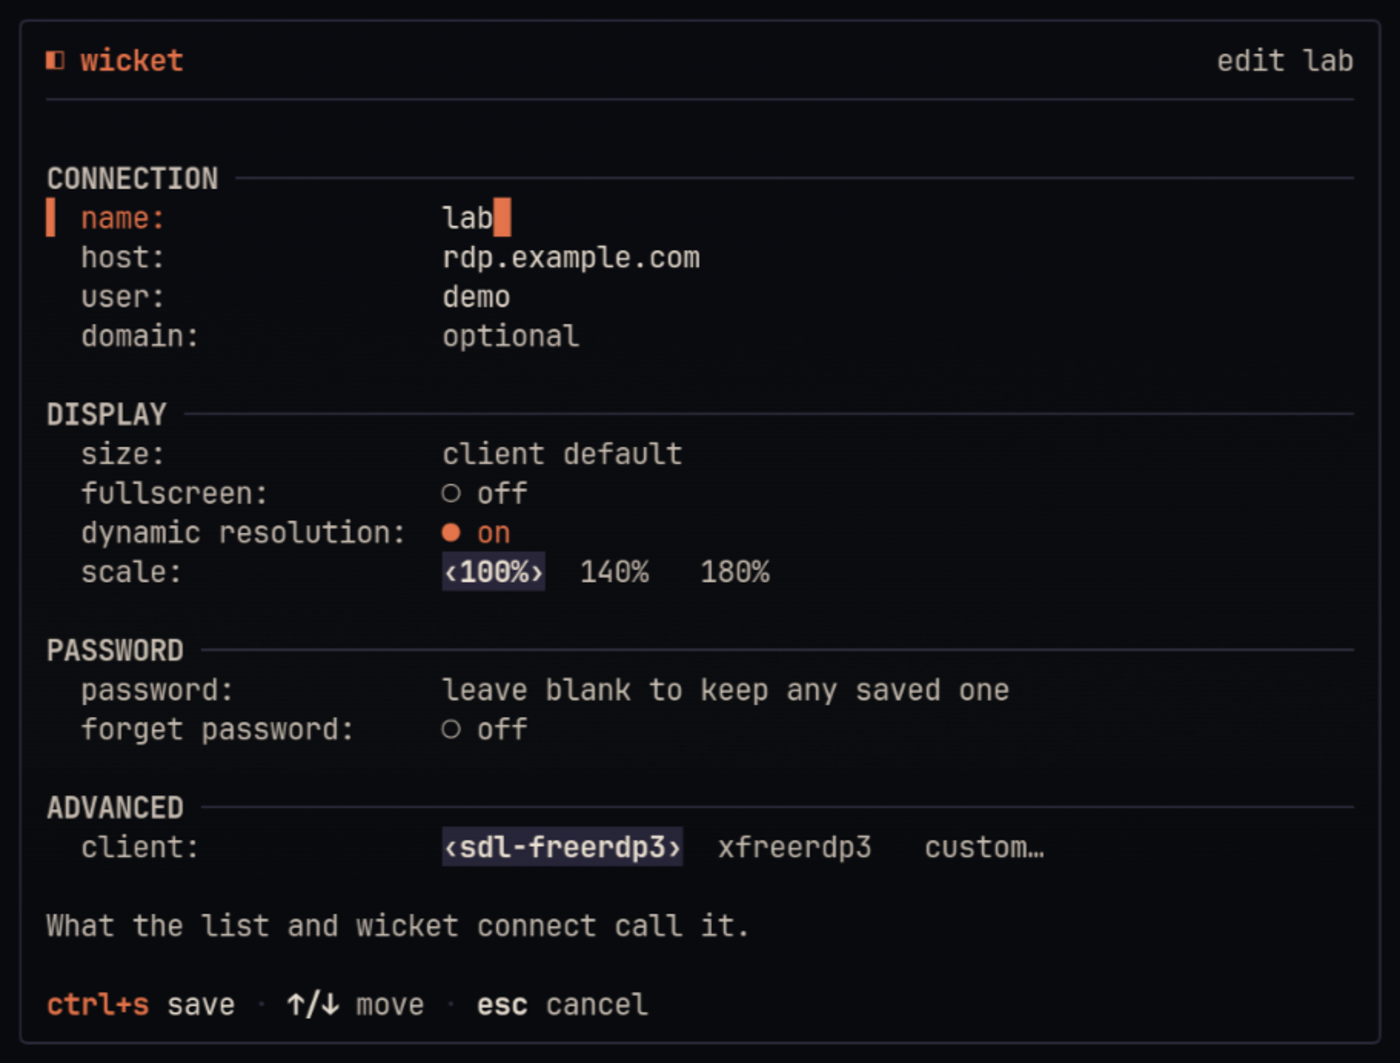
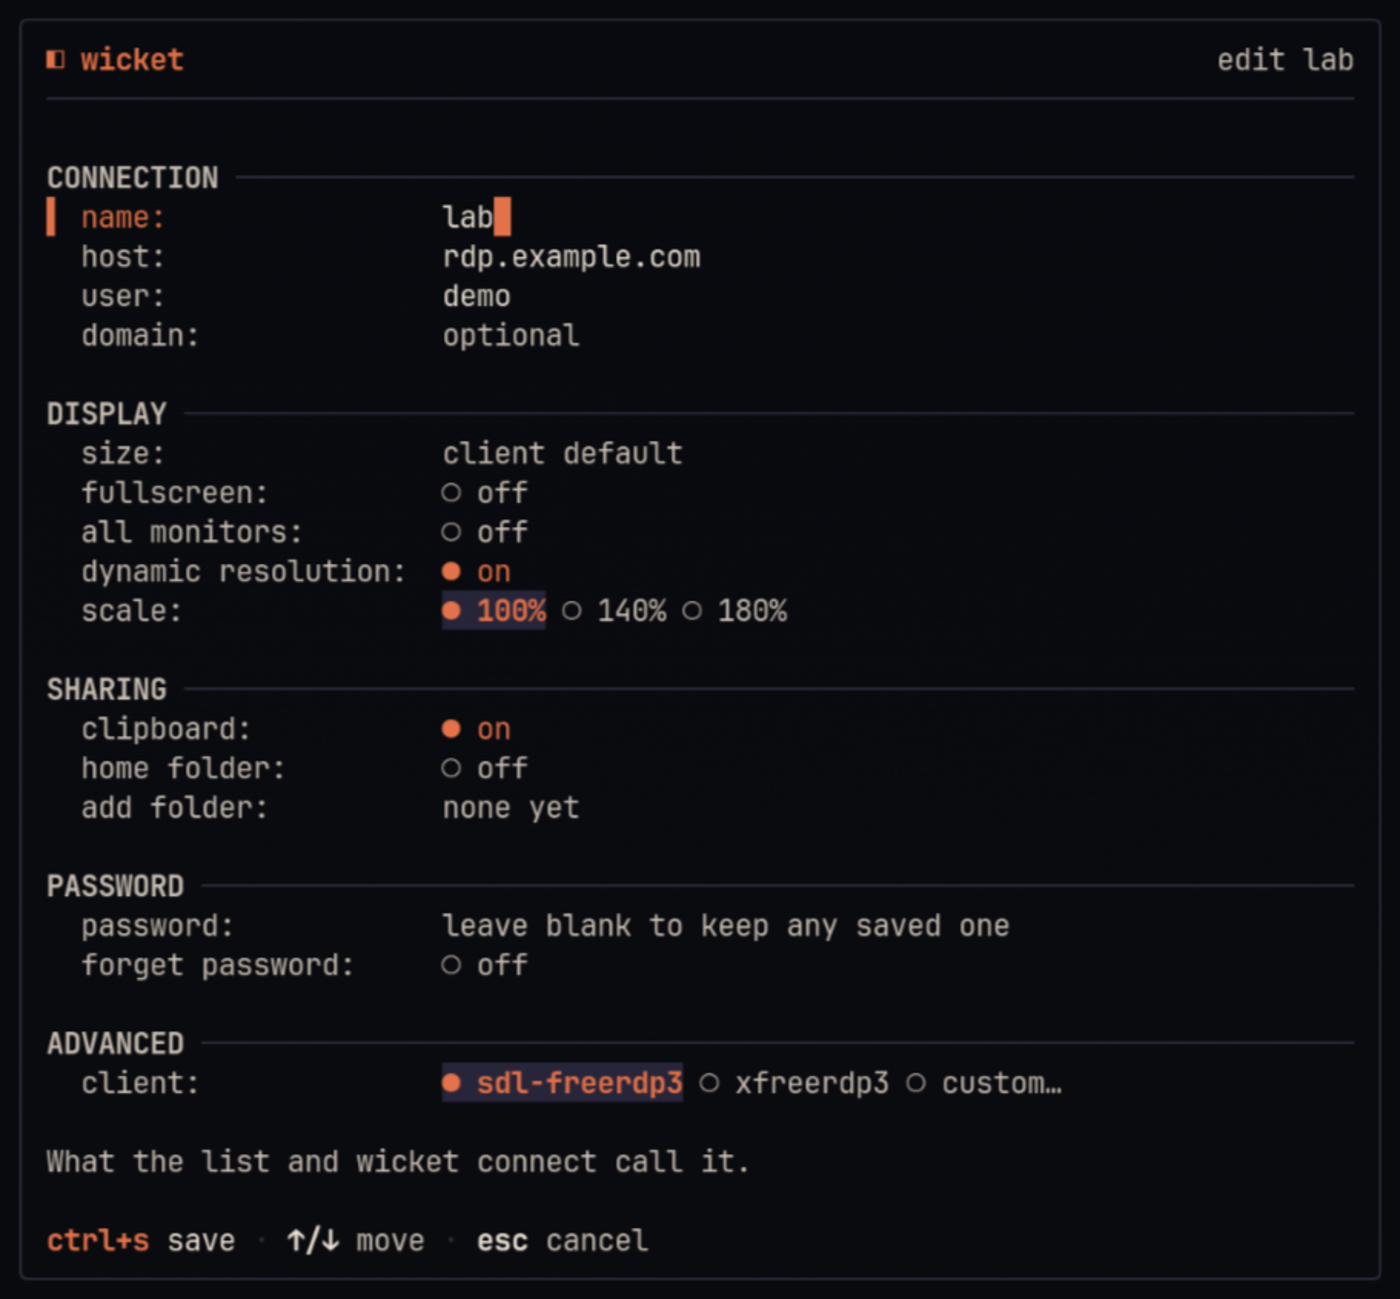
docs: release checklist in CONTRIBUTING, recapture screenshots (#128)
* docs: add the release notes and post-release checks, recapture screenshots

CONTRIBUTING's Releasing section now says how to write the release notes
and lists the checks to run once the workflow has published: SHA256SUMS,
the attestation of each tarball, and an end-to-end install into a scratch
directory. It also says the update-aur job skips itself until the AUR
package is published.

The README screenshots now show v0.4.0: the edit form's sharing section,
all-monitors toggle and radio options, and the help panel's version line.

Closes #127

* tui: leave a blank line before the version in the help panel

The version now sits apart from the key list. It and its gap are still
the first thing a short panel drops, so neither pushes a key into the
scroll.

* docs: recapture the help screenshot with the gap before the version

* docs: say which installs a failed attestation stops, and the gh it needs

diff --git a/internal/tui/help_test.go b/internal/tui/help_test.go
@@ -95,25 +95,49 @@ func TestHelp_VersionOnlyOnListHelp(t *testing.T) {
 	}
 }
 
-// The version line is the first thing a short panel sheds: with room for
-// exactly the key lines, every key stays and the version goes.
+// A blank line sets the version apart from the last key.
+func TestHelp_VersionAfterBlankLine(t *testing.T) {
+	m := newHarness(t, fixtureTOML("work", "h", "u"), panicStore{}).m
+	m.version = testVersion
+	m.helpFor = viewList
+	keys := helpKeys(viewList)
+	lines := strings.Split(stripANSI(m.viewHelp(layout{Inner: 76, Budget: 40})), "\n")
+	if len(lines) != len(keys)+2 {
+		t.Fatalf("got %d help lines, want %d:\n%s", len(lines), len(keys)+2, strings.Join(lines, "\n"))
+	}
+	if gap := strings.TrimSpace(lines[len(keys)]); gap != "" {
+		t.Fatalf("line before the version = %q, want blank", gap)
+	}
+	if got := lines[len(keys)+1]; got != testVersion {
+		t.Fatalf("last line = %q, want %q", got, testVersion)
+	}
+}
+
+// The version line and its gap are the first thing a short panel sheds: with
+// room for only one more line than the keys, every key stays and the version
+// goes.
 func TestHelp_VersionDroppedBeforeKeys(t *testing.T) {
 	m := newHarness(t, fixtureTOML("work", "h", "u"), panicStore{}).m
 	m.version = testVersion
 	m.helpFor = viewList
 	keys := helpKeys(viewList)
-	lo := layout{Inner: 76, Budget: len(keys) + 1}
+	lo := layout{Inner: 76, Budget: len(keys) + 2}
 	if out := stripANSI(m.viewHelp(lo)); !strings.Contains(out, testVersion) {
 		t.Fatalf("version should fit at budget %d:\n%s", lo.Budget, out)
 	}
-	lo.Budget = len(keys)
-	out := stripANSI(m.viewHelp(lo))
-	if strings.Contains(out, "0.3.1") {
-		t.Fatalf("version should be dropped at budget %d:\n%s", lo.Budget, out)
-	}
-	for _, k := range keys {
-		if !strings.Contains(out, k.label) {
-			t.Fatalf("key %q dropped at budget %d:\n%s", k.label, lo.Budget, out)
+	for _, budget := range []int{len(keys) + 1, len(keys)} {
+		lo.Budget = budget
+		out := stripANSI(m.viewHelp(lo))
+		if strings.Contains(out, "0.3.1") {
+			t.Fatalf("version should be dropped at budget %d:\n%s", lo.Budget, out)
+		}
+		if got := len(strings.Split(out, "\n")); got != len(keys) {
+			t.Fatalf("got %d lines at budget %d, want only the %d keys:\n%s", got, lo.Budget, len(keys), out)
+		}
+		for _, k := range keys {
+			if !strings.Contains(out, k.label) {
+				t.Fatalf("key %q dropped at budget %d:\n%s", k.label, lo.Budget, out)
+			}
 		}
 	}
 	// Shorter still, help scrolls as before and the version never appears.

diff --git a/internal/tui/help.go b/internal/tui/help.go
@@ -45,14 +45,15 @@ func (m Model) helpLines(width int) []string {
 
 // viewHelp shows the key list, scrolled so every entry is reachable even when
 // the panel is shorter than the list. The list view's help adds the running
-// version under the keys, but only when every key line fits as well: the
-// version goes first, so it never pushes a key out of view or into the scroll.
+// version under the keys, after a blank line, but only when every key line
+// fits as well: the version and its gap go first, so they never push a key
+// out of view or into the scroll.
 func (m Model) viewHelp(lo layout) string {
 	lines := m.helpLines(lo.Inner)
 	budget := max(lo.Budget, 1)
 	if len(lines) <= budget {
-		if v := m.helpVersion(lo.Inner); v != "" && len(lines) < budget {
-			lines = append(lines, v)
+		if v := m.helpVersion(lo.Inner); v != "" && len(lines)+2 <= budget {
+			lines = append(lines, "", v)
 		}
 		return strings.Join(lines, "\n")
 	}

diff --git a/CONTRIBUTING.md b/CONTRIBUTING.md
@@ -121,6 +121,51 @@ step. Never add a new release to `UNATTESTED` in `install.sh`.
 git tag -a v0.1.0 -m v0.1.0 && git push origin v0.1.0
 ```
 
+### Release notes
+
+There is no CHANGELOG. The workflow publishes the release with GitHub's
+generated list of merged PRs. Once it is up, write a short summary of what
+changed for users since the last tag, put it above that list, and replace the
+notes:
+
+```
+gh release view vX.Y.Z --json body --jq .body > notes.md   # add the summary at the top
+gh release edit vX.Y.Z --notes-file notes.md
+```
+
+### After the release
+
+When the workflow has finished, check what it published before announcing it:
+
+1. Download the assets and check them against `SHA256SUMS` (on macOS, use
+   `shasum -a 256 -c SHA256SUMS`):
+
+   ```
+   gh release download vX.Y.Z --dir rel && (cd rel && sha256sum -c SHA256SUMS)
+   ```
+
+2. Verify the attestation of each tarball:
+
+   ```
+   for t in rel/*.tar.gz; do
+     GH_HOST=github.com gh attestation verify "$t" --repo gaius-codius/wicket \
+       --cert-identity https://github.com/gaius-codius/wicket/.github/workflows/release.yml@refs/tags/vX.Y.Z
+   done
+   ```
+
+   `install.sh` runs the same check on the tarball for the platform it
+   installs, so a tarball that fails it fails closed for every install of
+   that platform with gh 2.68 or later.
+
+3. Install the release end to end into a scratch directory:
+
+   ```
+   WICKET_BINDIR="$(mktemp -d)" sh install.sh --version vX.Y.Z
+   ```
+
+   With gh 2.68 or later on `PATH` it should print `verified provenance`,
+   then `installed wicket X.Y.Z`.
+
 ### AUR
 
 `packaging/aur/wicket-bin/PKGBUILD` is the template for the `wicket-bin` AUR
@@ -128,8 +173,9 @@ package. When the `AUR_SSH_PRIVATE_KEY` secret is set, the `release` workflow
 sets `pkgver`, `pkgrel=1` and the checksums from the tag and `SHA256SUMS`,
 test-builds the package, and pushes `PKGBUILD` and a fresh `.SRCINFO` to the
 AUR, in an `update-aur` job after the release. Without the secret the job
-does nothing, and it skips any tag that is not a plain `vX.Y.Z`. If the push
-fails, re-run that job alone from the Actions page.
+skips itself, as it does until the AUR package is first published (#56).
+It also skips any tag that is not a plain `vX.Y.Z`. If the push fails,
+re-run that job alone from the Actions page.
 
 First-time setup:
 
